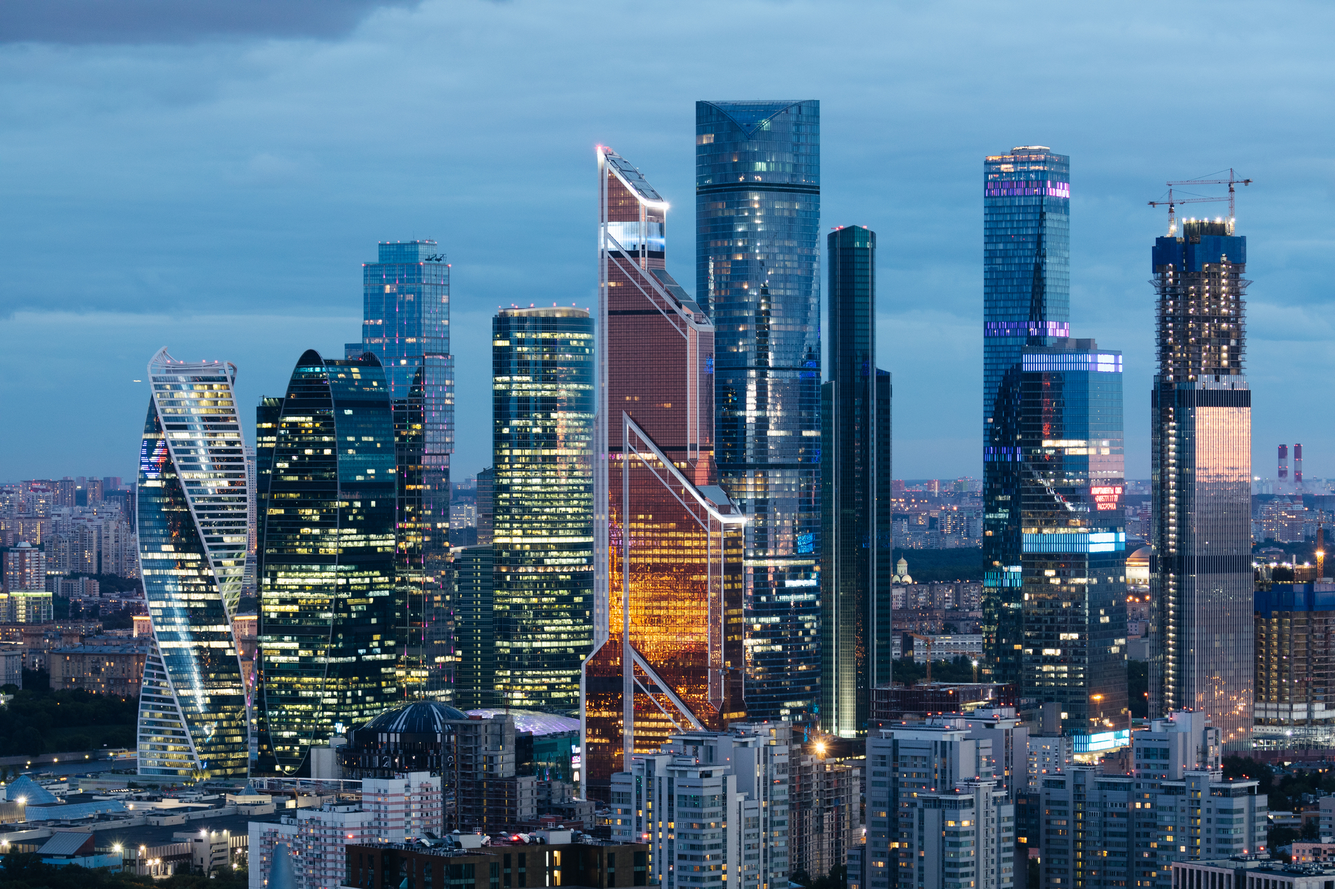
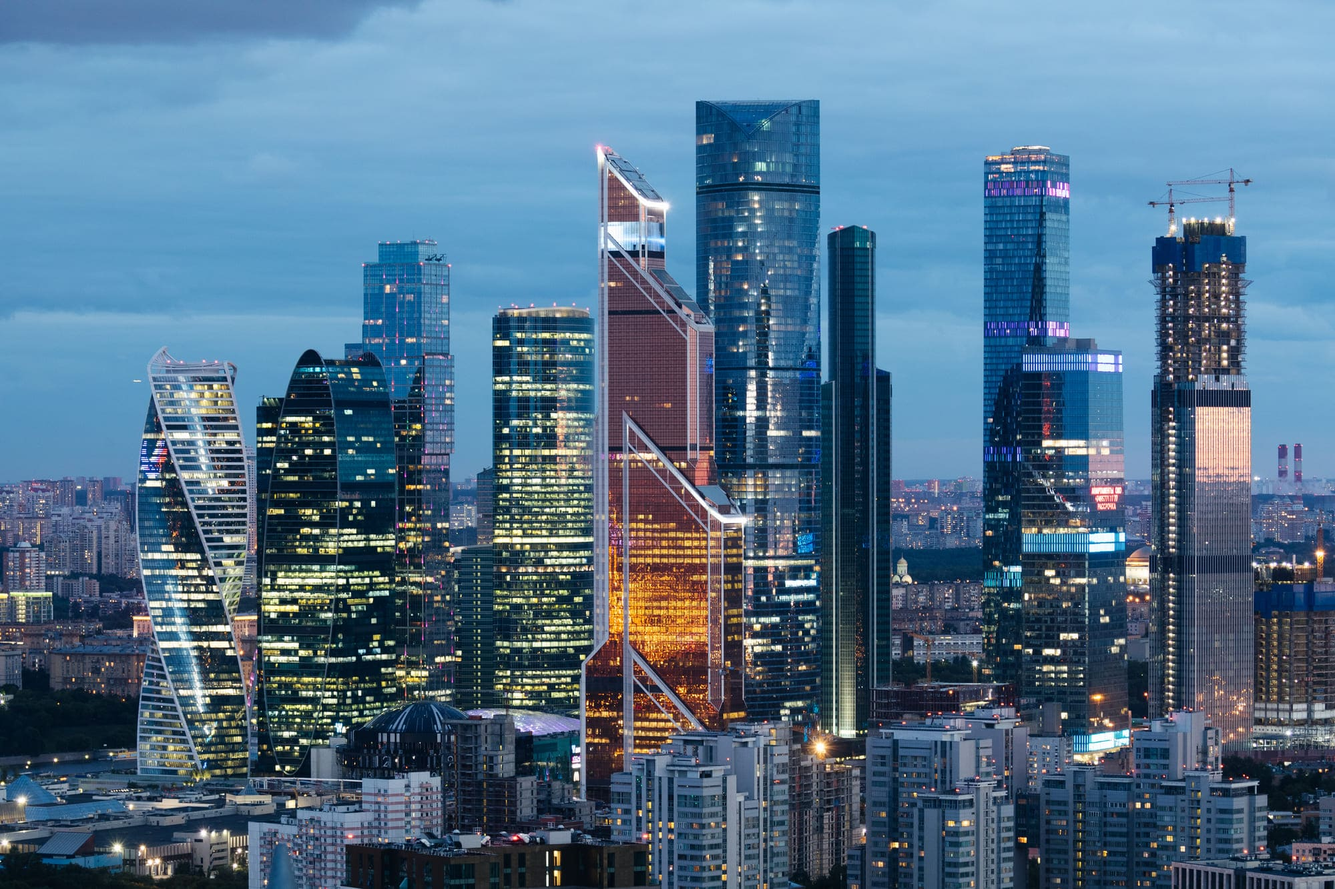
compress photo

diff --git a/src/app/service/page.tsx b/src/app/service/page.tsx
@@ -4,10 +4,9 @@ import Testimoni from "../components/testimoni";
 
 async function getData() {
     const res = await fetch("https://cdn.contentful.com/spaces/49owbg6qwmty/environments/master/entries?access_token=d43JANiJ2iZwh0dQ8INnh4j4fwh-exlYFWeDKORZCq8", {
-        method : "GET",
-        cache : "no-cache"
+        method: "GET",
     })
-    if(!res.ok){
+    if (!res.ok) {
         throw new Error("Fetching Error")
     }
     const jsonData = res.json()
@@ -16,67 +15,119 @@ async function getData() {
 
 export default async function Service() {
     const res = await getData()
-return (
-<div>
-    <div className="flex wrap p-16 w-full justify-evenly gap-10">
-        <div className="card bg-base-100 h-[525px] w-1/4 shadow-xl rounded-lg border-2 border-gray-500 hover:scale-105 duration-200">
-            <figure>
-                <img className="h-60 w-[475px] rounded-t-md" 
-                    src="/cartenzPhoto.jpg"
-                    alt="serviceOne" />
-            </figure>
-            <div className="card-body">
-                <h2 className="card-title py-2 px-2 font-bold text-blue-900">Air of Cartenz </h2>
-                <p className="py-2 px-2 text-balance font-light">Lorem ipsum dolor sit amet consectetur, adipisicing elit. Repudiandae sapiente in vel ullam ex illo pariatur assumenda cupiditate dolorem facilis est, perferendis ipsum eveniet ratione iure! Repudiandae perferendis expedita illum.</p>
-                <div className="card-actions text-center">
-                <Link href={`/servicePage/${res.items[3].fields.slug}`} className="font-semibold text-blue-900">Buy Now</Link>
+    return (
+        <div className="w-full">
+            <div className=" p-16 max-w-7xl mx-auto flex flex-wrap justify-evenly gap-10">
+                <div className="card bg-base-100 h-[525px] lg:w-1/4 shadow-xl rounded-lg border-2 border-gray-500 hover:scale-105 duration-200 -z-20">
+                    <figure>
+                        <img className="h-60 w-[475px] rounded-t-md"
+                            src="/cartenzPhoto.jpg"
+                            alt="serviceOne" />
+                    </figure>
+                    <div className="card-body">
+                        <h2 className="card-title py-2 px-2 font-bold text-blue-900">Air of Cartenz</h2>
+                        <p className="py-2 px-2 text-balance font-light">Lorem ipsum dolor sit amet consectetur, adipisicing elit. Repudiandae sapiente in vel ullam ex illo pariatur assumenda cupiditate dolorem facilis est, perferendis ipsum eveniet ratione iure! Repudiandae perferendis expedita illum.</p>
+                        <div className="card-actions text-center">
+                            <Link href={`/servicePage/${res.items[3].fields.slug}`} className="font-semibold text-blue-900">Buy Now</Link>
+                        </div>
+                    </div>
                 </div>
-            </div>
-        </div>
-        <div className="card bg-base-100 h-[550px] w-1/4 shadow-xl rounded-lg border-2 border-gray-500 hover:scale-105 duration-200">
-            <figure>
-                <img className="h-60 w-[475px] rounded-t-md"
-                     src="/kerinciPhoto.webp"
-                    alt="serviceOTwo" />
-            </figure>
-            <div className="card-body">
-                <h2 className="card-title py-2 px-2 text-blue-900 font-bold">Air of Kerinci</h2>
-                <p className="py-2 px-2 text-balance font-light">Lorem ipsum dolor, sit amet consectetur adipisicing elit. Ea earum, aspernatur obcaecati sit porro, dolorem veritatis explicabo perspiciatis totam pariatur molestias laudantium. Numquam provident aut corrupti harum libero maxime soluta.</p>
-                <div className="card-actions text-center">
-                <Link href={`/servicePage/${res.items[2].fields.slug}`} className="font-semibold text-blue-900">Buy Now</Link>
+
+                <div className="card bg-base-100 h-[525px] lg:w-1/4 shadow-xl rounded-lg border-2 border-gray-500 hover:scale-105 duration-200 -z-20">
+                    <figure>
+                        <img className="h-60 w-[475px] rounded-t-md"
+                            src="/rinjaniPhoto.webp"
+                            alt="serviceTwo" />
+                    </figure>
+                    <div className="card-body">
+                        <h2 className="card-title py-2 px-2 font-bold text-blue-900">Air of Rinjani </h2>
+                        <p className="py-2 px-2 text-balance font-light">Lorem ipsum dolor sit amet consectetur, adipisicing elit. Repudiandae sapiente in vel ullam ex illo pariatur assumenda cupiditate dolorem facilis est, perferendis ipsum eveniet ratione iure! Repudiandae perferendis expedita illum.</p>
+                        <div className="card-actions text-center">
+                            <Link href={`/servicePage/${res.items[2].fields.slug}`} className="font-semibold text-blue-900">Buy Now</Link>
+                        </div>
+                    </div>
                 </div>
-            </div>
-        </div>
-        <div className="card bg-base-100 h-[525px] w-1/4 shadow-xl rounded-lg border-2 border-gray-500 hover:scale-105 duration-200">
-            <figure>
-                <img className="h-60 w-[475px] rounded-t-md"
-                     src="/rinjaniPhoto.webp"
-                    alt="serviceThree" />
-            </figure>
-            <div className="card-body">
-                <h2 className="card-title py-2 px-2 text-blue-900 font-bold">Air of Rinjani</h2>
-                <p className="py-2 px-2 text-balance font-light">Lorem ipsum dolor sit, amet consectetur adipisicing elit. Voluptas, dignissimos. Eveniet, id corporis? Cumque sit, consectetur repellat nihil exercitationem adipisci non amet asperiores commodi vel suscipit aperiam laudantium facere reiciendis.</p>
-                <div className="card-actions text-center">
-                <Link href={`/servicePage/${res.items[1].fields.slug}`} className="font-semibold text-blue-900">Buy Now</Link>
+
+                <div className="card bg-base-100 h-[525px] lg:w-1/4 shadow-xl rounded-lg border-2 border-gray-500 hover:scale-105 duration-200 -z-20">
+                    <figure>
+                        <img className="h-60 w-[475px] rounded-t-md"
+                            src="/semeruPhoto.jpeg"
+                            alt="serviceThree" />
+                    </figure>
+                    <div className="card-body">
+                        <h2 className="card-title py-2 px-2 font-bold text-blue-900">Air of Semeru </h2>
+                        <p className="py-2 px-2 text-balance font-light">Lorem ipsum dolor sit amet consectetur, adipisicing elit. Repudiandae sapiente in vel ullam ex illo pariatur assumenda cupiditate dolorem facilis est, perferendis ipsum eveniet ratione iure! Repudiandae perferendis expedita illum.</p>
+                        <div className="card-actions text-center">
+                            <Link href={`/servicePage/${res.items[1].fields.slug}`} className="font-semibold text-blue-900">Buy Now</Link>
+                        </div>
+                    </div>
                 </div>
-            </div>
-        </div>
-        <div className="card bg-base-100 h-[550px] w-1/4 shadow-xl rounded-lg border-2 border-gray-500 hover:scale-105 duration-200">
-            <figure>
-                <img className="h-60 w-[475px] rounded-t-md" 
-                    src="/semeruPhoto.jpeg"
-                    alt="serviceOne" />
-            </figure>
-            <div className="card-body">
-                <h2 className="card-title py-2 px-2 font-bold text-blue-900">Air of Semeru</h2>
-                <p className="py-2 px-2 text-balance font-light">Lorem ipsum dolor sit amet consectetur, adipisicing elit. Repudiandae sapiente in vel ullam ex illo pariatur assumenda cupiditate dolorem facilis est, perferendis ipsum eveniet ratione iure! Repudiandae perferendis expedita illum.</p>
-                <div className="card-actions text-center">
-                <Link href={`/servicePage/${res.items[0].fields.slug}`} className="font-semibold text-blue-900">Buy Now</Link>
+
+                <div className="card bg-base-100 h-[525px] lg:w-1/4 shadow-xl rounded-lg border-2 border-gray-500 hover:scale-105 duration-200 -z-20">
+                    <figure>
+                        <img className="h-60 w-[475px] rounded-t-md"
+                            src="/kerinciPhoto.webp"
+                            alt="serviceFour"/>
+                    </figure>
+                    <div className="card-body">
+                        <h2 className="card-title py-2 px-2 font-bold text-blue-900">Air of Kerinci</h2>
+                        <p className="py-2 px-2 text-balance font-light">Lorem ipsum dolor sit amet consectetur, adipisicing elit. Repudiandae sapiente in vel ullam ex illo pariatur assumenda cupiditate dolorem facilis est, perferendis ipsum eveniet ratione iure! Repudiandae perferendis expedita illum.</p>
+                        <div className="card-actions text-center">
+                            <Link href={`/servicePage/${res.items[0].fields.slug}`} className="font-semibold text-blue-900">Buy Now</Link>
+                        </div>
+                    </div>
                 </div>
+                
+
+                
+
+                {/* <div className="card bg-base-100 h-[550px] w-1/4 shadow-xl rounded-lg border-2 border-gray-500 hover:scale-105 duration-200">
+                    <figure>
+                        <img className="h-60 w-[475px] rounded-t-md"
+                            src="/kerinciPhoto.webp"
+                            alt="serviceOTwo" />
+                    </figure>
+                    <div className="card-body">
+                        <h2 className="card-title py-2 px-2 text-blue-900 font-bold">Air of Kerinci</h2>
+                        <p className="py-2 px-2 text-balance font-light">Lorem ipsum dolor, sit amet consectetur adipisicing elit. Ea earum, aspernatur obcaecati sit porro, dolorem veritatis explicabo perspiciatis totam pariatur molestias laudantium. Numquam provident aut corrupti harum libero maxime soluta.</p>
+                        <div className="card-actions text-center">
+                            <Link href={`/servicePage/${res.items[2].fields.slug}`} className="font-semibold text-blue-900">Buy Now</Link>
+                        </div>
+                    </div>
+                </div>
+
+                <div className="card bg-base-100 h-[525px] w-1/4 shadow-xl rounded-lg border-2 border-gray-500 hover:scale-105 duration-200">
+                    <figure>
+                        <img className="h-60 w-[475px] rounded-t-md"
+                            src="/rinjaniPhoto.webp"
+                            alt="serviceThree" />
+                    </figure>
+                    <div className="card-body">
+                        <h2 className="card-title py-2 px-2 text-blue-900 font-bold">Air of Rinjani</h2>
+                        <p className="py-2 px-2 text-balance font-light">Lorem ipsum dolor sit, amet consectetur adipisicing elit. Voluptas, dignissimos. Eveniet, id corporis? Cumque sit, consectetur repellat nihil exercitationem adipisci non amet asperiores commodi vel suscipit aperiam laudantium facere reiciendis.</p>
+                        <div className="card-actions text-center">
+                            <Link href={`/servicePage/${res.items[1].fields.slug}`} className="font-semibold text-blue-900">Buy Now</Link>
+                        </div>
+                    </div>
+                </div>
+
+                <div className="card bg-base-100 h-[550px] w-1/4 shadow-xl rounded-lg border-2 border-gray-500 hover:scale-105 duration-200">
+                    <figure>
+                        <img className="h-60 w-[475px] rounded-t-md"
+                            src="/semeruPhoto.jpeg"
+                            alt="serviceOne" />
+                    </figure>
+                    <div className="card-body">
+                        <h2 className="card-title py-2 px-2 font-bold text-blue-900">Air of Semeru</h2>
+                        <p className="py-2 px-2 text-balance font-light">Lorem ipsum dolor sit amet consectetur, adipisicing elit. Repudiandae sapiente in vel ullam ex illo pariatur assumenda cupiditate dolorem facilis est, perferendis ipsum eveniet ratione iure! Repudiandae perferendis expedita illum.</p>
+                        <div className="card-actions text-center">
+                            <Link href={`/servicePage/${res.items[0].fields.slug}`} className="font-semibold text-blue-900">Buy Now</Link>
+                        </div>
+                    </div>
+                </div> */}
+
             </div>
+            <Footer />
         </div>
-    </div>
-    <Footer/>
-</div>
-)
+    )
 }

diff --git a/src/app/about/page.tsx b/src/app/about/page.tsx
@@ -6,18 +6,24 @@ export default function About() {
   return (
     <div>
       <div className="grid grid-row lg:grid-cols-2 justify-evenly h-[600px] overflow-hidden bg-sliderOne bg-cover lg:bg-right-bottom ">
-        <div className="content-center text-center font-light mx-20">
+        <div></div>
+        <div className="lg:flex flex-col text-center  items-center hidden h-full pt-20 px-5 font-light mx-">
           <h1 className="text-2xl font-medium p-3 text-black">Company History</h1>
           <p className="pb-3 text-black">UDARA was founded in year by founders names in location. The company started with a vision to describe original mission or purpose. From its humble beginnings in describe early workspace or setup Company Name quickly gained traction in the industry or niche sector due to mention early successes or innovations.</p>
           <h4 className="text-black">-Prof Sujimandra</h4>
         </div>
       </div>
+      <div className="flex flex-col text-center lg:hidden items-center h-full pt-5 px-5 font-light mx-">
+          <h1 className="text-2xl font-medium p-3 text-black">Company History</h1>
+          <p className="pb-3 text-black">UDARA was founded in year by founders names in location. The company started with a vision to describe original mission or purpose. From its humble beginnings in describe early workspace or setup Company Name quickly gained traction in the industry or niche sector due to mention early successes or innovations.</p>
+          <h4 className="text-black">-Prof Sujimandra</h4>
+        </div>
       <h2 className="text-center font-semibold text-xl pt-14 hover:scale-150 hover:font-bold duration-200">OUR TEAM</h2>
       <div className="max-w-screen-xl mx-auto px-4 py-10 overflow-x-auto">
         <Card />
       </div>
-      <div className="grid lg:grid-cols-2 h-[400px] w-[1000px] rounded-2xl bg-black mx-auto my-11 text-white">
-        <div className="content-center mx-auto text-center p-3">
+      <div className="grid lg:grid-cols-2 lg:h-[400px] bg-black mx-auto my-11 text-white">
+        <div className="content-center mx-auto text-center p-10 ">
           <h1 className="text-xl font-medium">Company Culture</h1>
           <p className="mt-2 font-light text-pretty">UDARA was founded in year by founders names in location. The company started with a vision to describe original mission or purpose. From its humble beginnings in describe early workspace or setup Company Name quickly gained traction in the industry or niche sector due to mention early successes or innovations.</p>
         </div>
@@ -30,6 +36,7 @@ export default function About() {
           />
         </div>
       </div>
+      
         <Footer />
     </div>
   );
